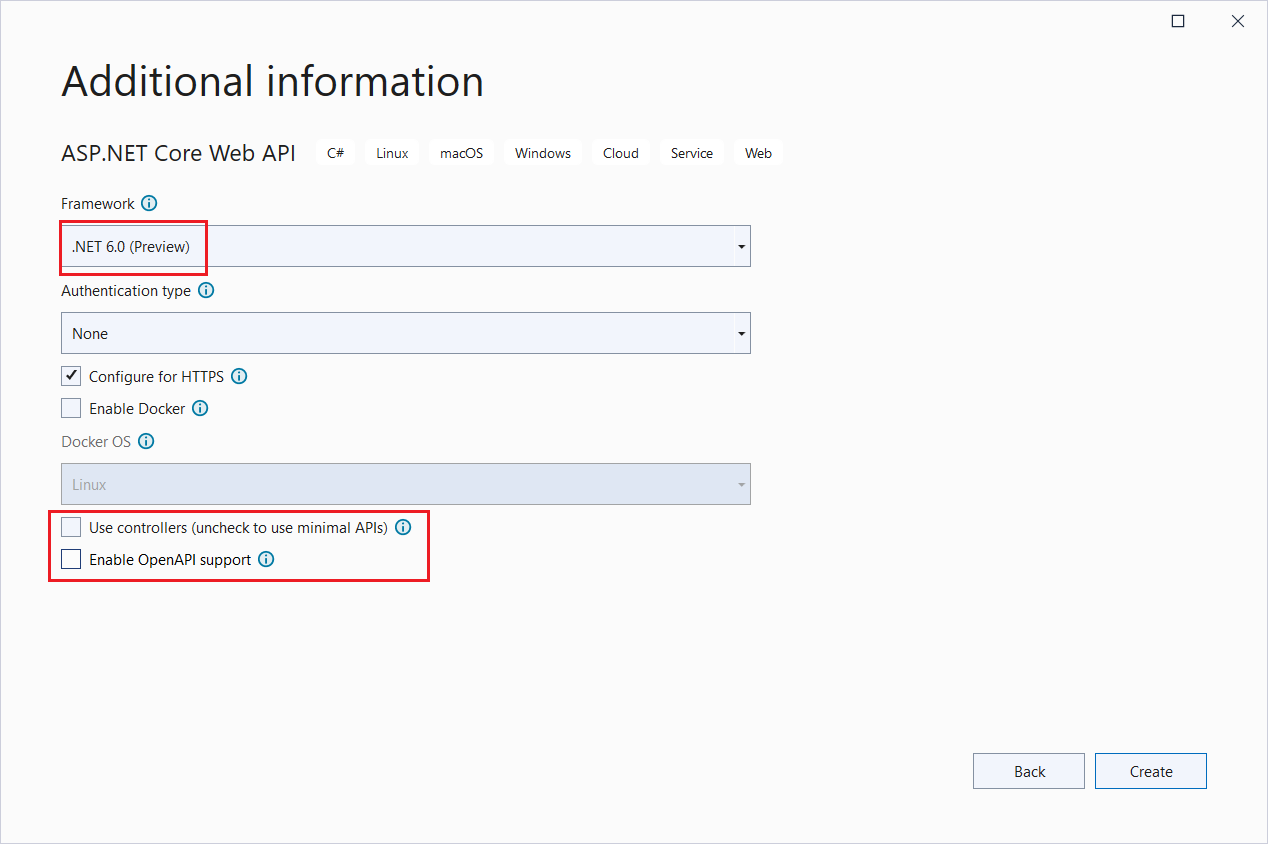
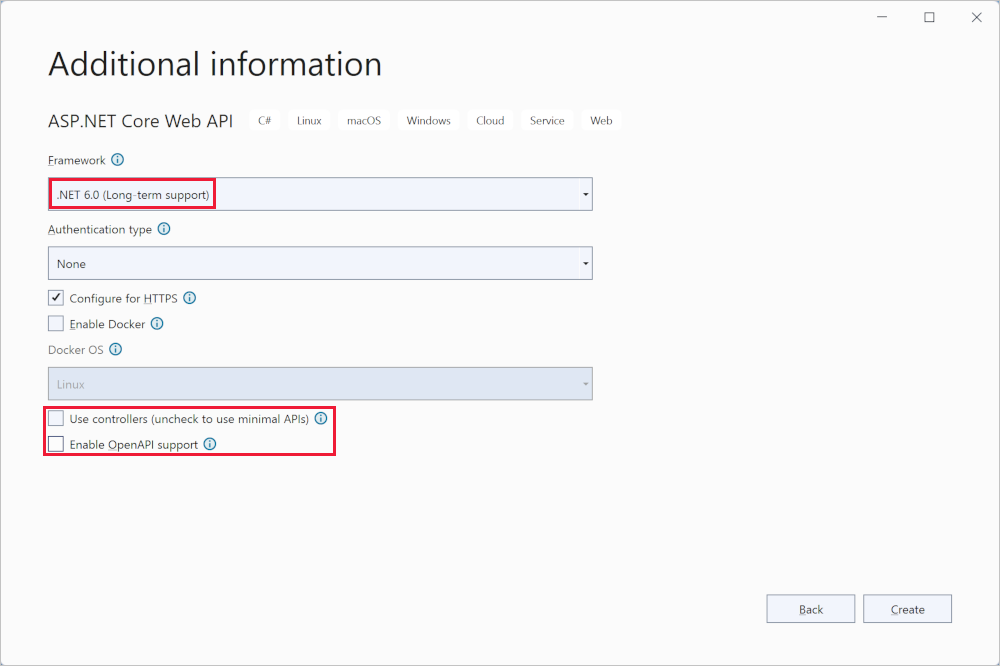
Remove dupe screenshot and update additional info screenshot (#23895)

diff --git a/aspnetcore/tutorials/min-web-api.md b/aspnetcore/tutorials/min-web-api.md
@@ -3,7 +3,7 @@ title: "Tutorial: Create a minimal web API with ASP.NET Core"
 author: rick-anderson
 description: Learn how to build a minimal web API with ASP.NET Core.
 ms.author: riande
-ms.date: 10/24/2021
+ms.date: 11/12/2021
 monikerRange: '>= aspnetcore-6.0'
 no-loc: [Home, Privacy, Kestrel, appsettings.json, "ASP.NET Core Identity", cookie, Cookie, Blazor, "Blazor Server", "Blazor WebAssembly", "Identity", "Let's Encrypt", Razor, SignalR, Models]
 uid: tutorials/min-web-api
@@ -56,7 +56,6 @@ This tutorial creates the following API:
 # [Visual Studio](#tab/visual-studio)
 
 * Start Visual Studio 2022 and select **Create a new project**.
-  ![Visual Studio new project start page](min-web-api/_static/create.png)
 * In the **Create a new project** dialog:
   * Enter `API` in the **Search for templates** search box.
   * Select the **ASP.NET Core Web API** template and select **Next**.
@@ -68,7 +67,7 @@ This tutorial creates the following API:
   * Remove **Use controllers (uncheck to use minimal APIs)**
   * Select **Create**
 
- ![Additional information](min-web-api/_static/add-info.png)
+ ![Additional information](min-web-api/_static/add-info2.png)
 
 <!-- 
 ![VS new project dialog](min-web-api/_static/5/vs.png)
